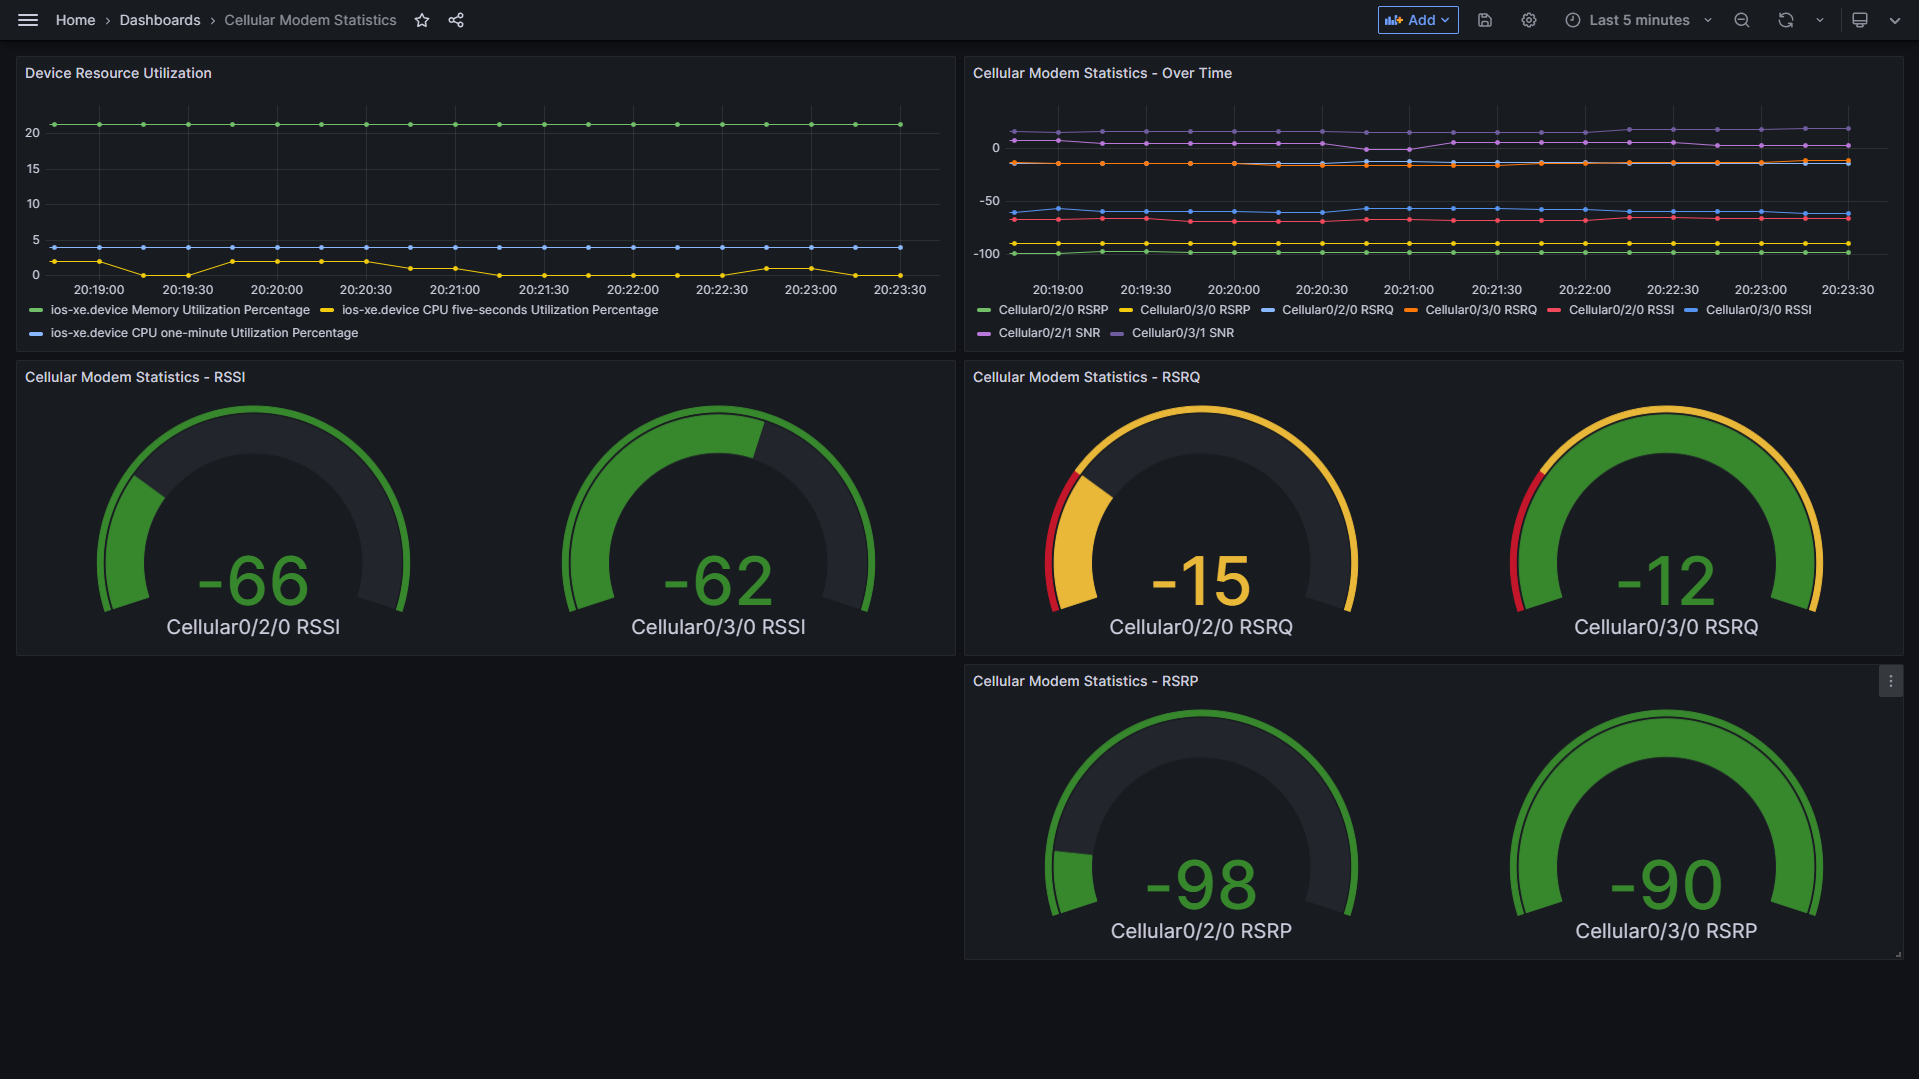
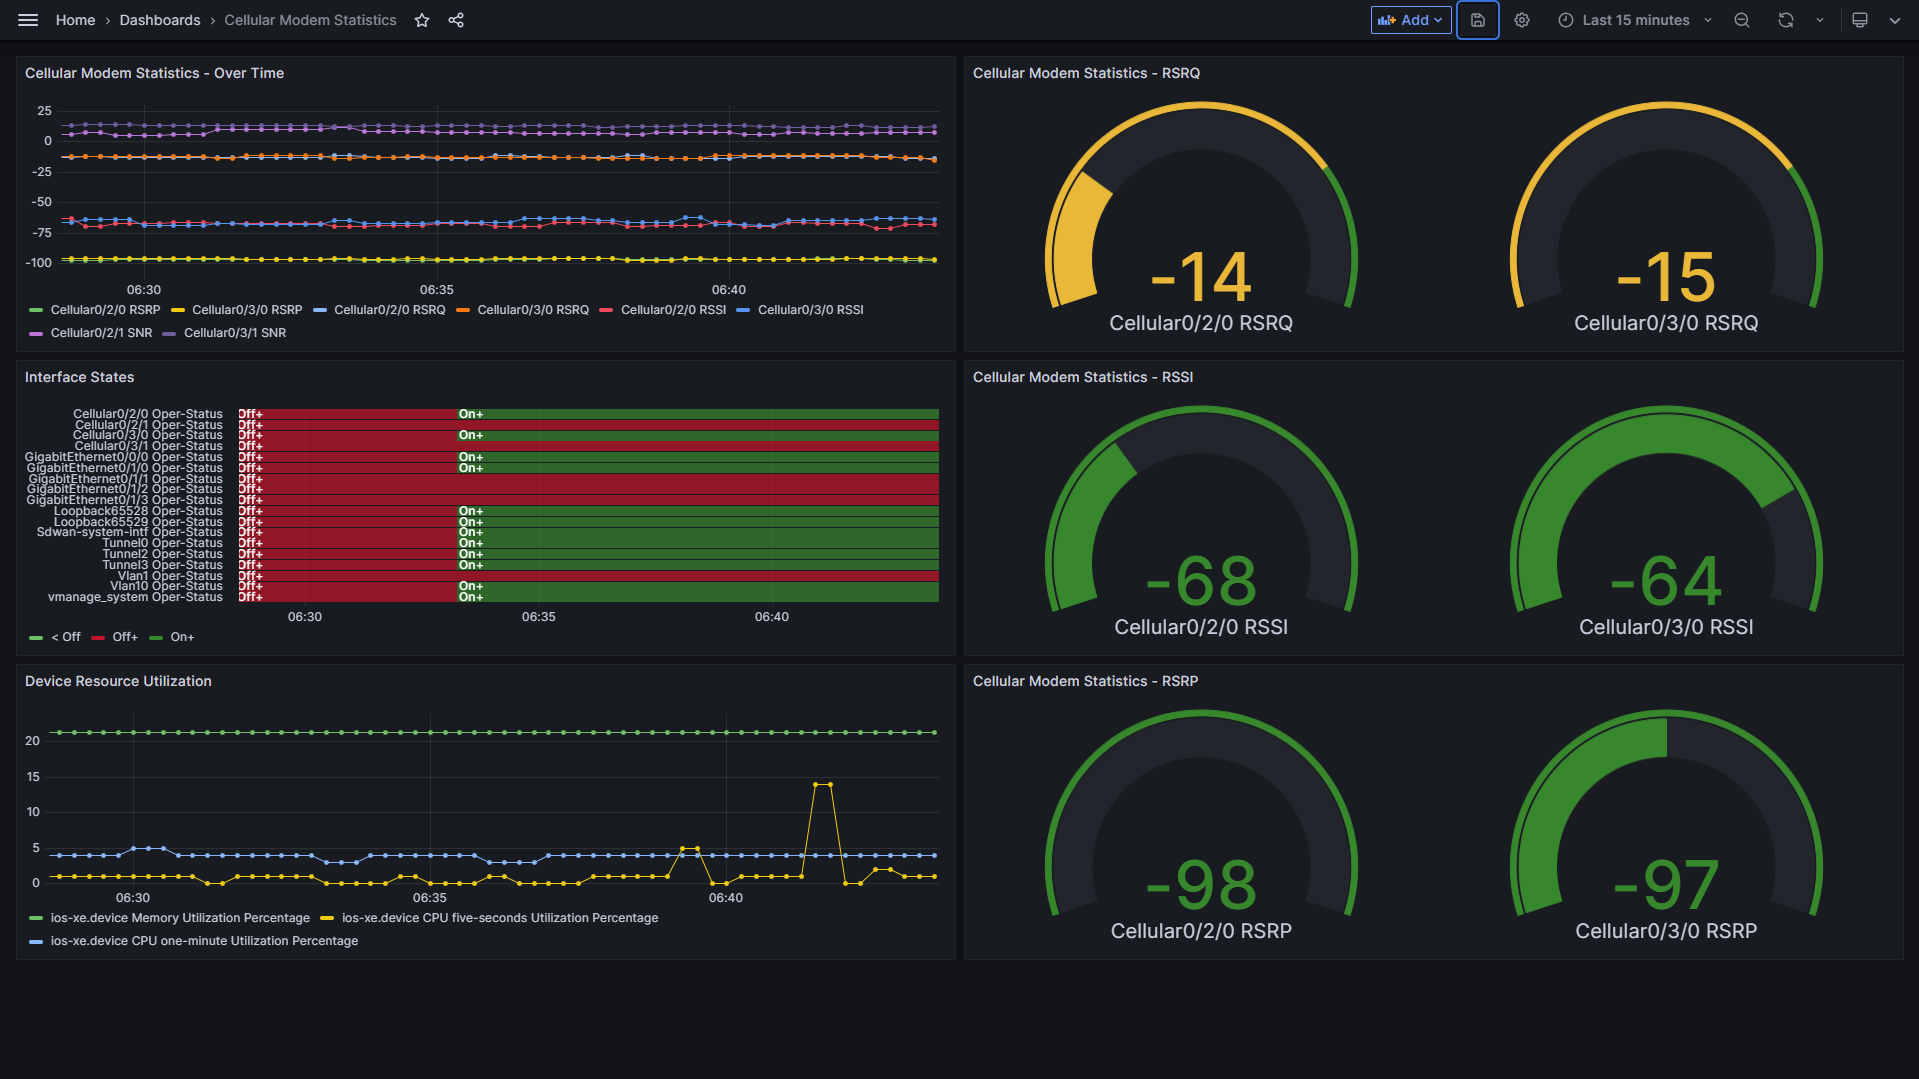
Fixed the operational states

diff --git a/telegraf/netconf-interfaces.py b/telegraf/netconf-interfaces.py
@@ -15,7 +15,7 @@ def dict_to_telegraf_json(rpc_reply_dict: Dict) -> str:
         intf_name = intf_entry["name"].replace(" ", "_")
         intf_stats = {
             "admin_status": 1 if intf_entry["admin-status"]=="if-state-up" else 0,
-            "operational_status": 1 if intf_entry["oper-status"]=="if-state-up" else 0,
+            "operational_status": 1 if intf_entry["oper-status"]=="if-oper-state-ready" else 0,
             "in_octets": int(intf_entry["statistics"]["in-octets"]),
             "in_errors": int(intf_entry["statistics"]["in-errors"]),
             "out_octets": int(intf_entry["statistics"]["out-octets"]),
